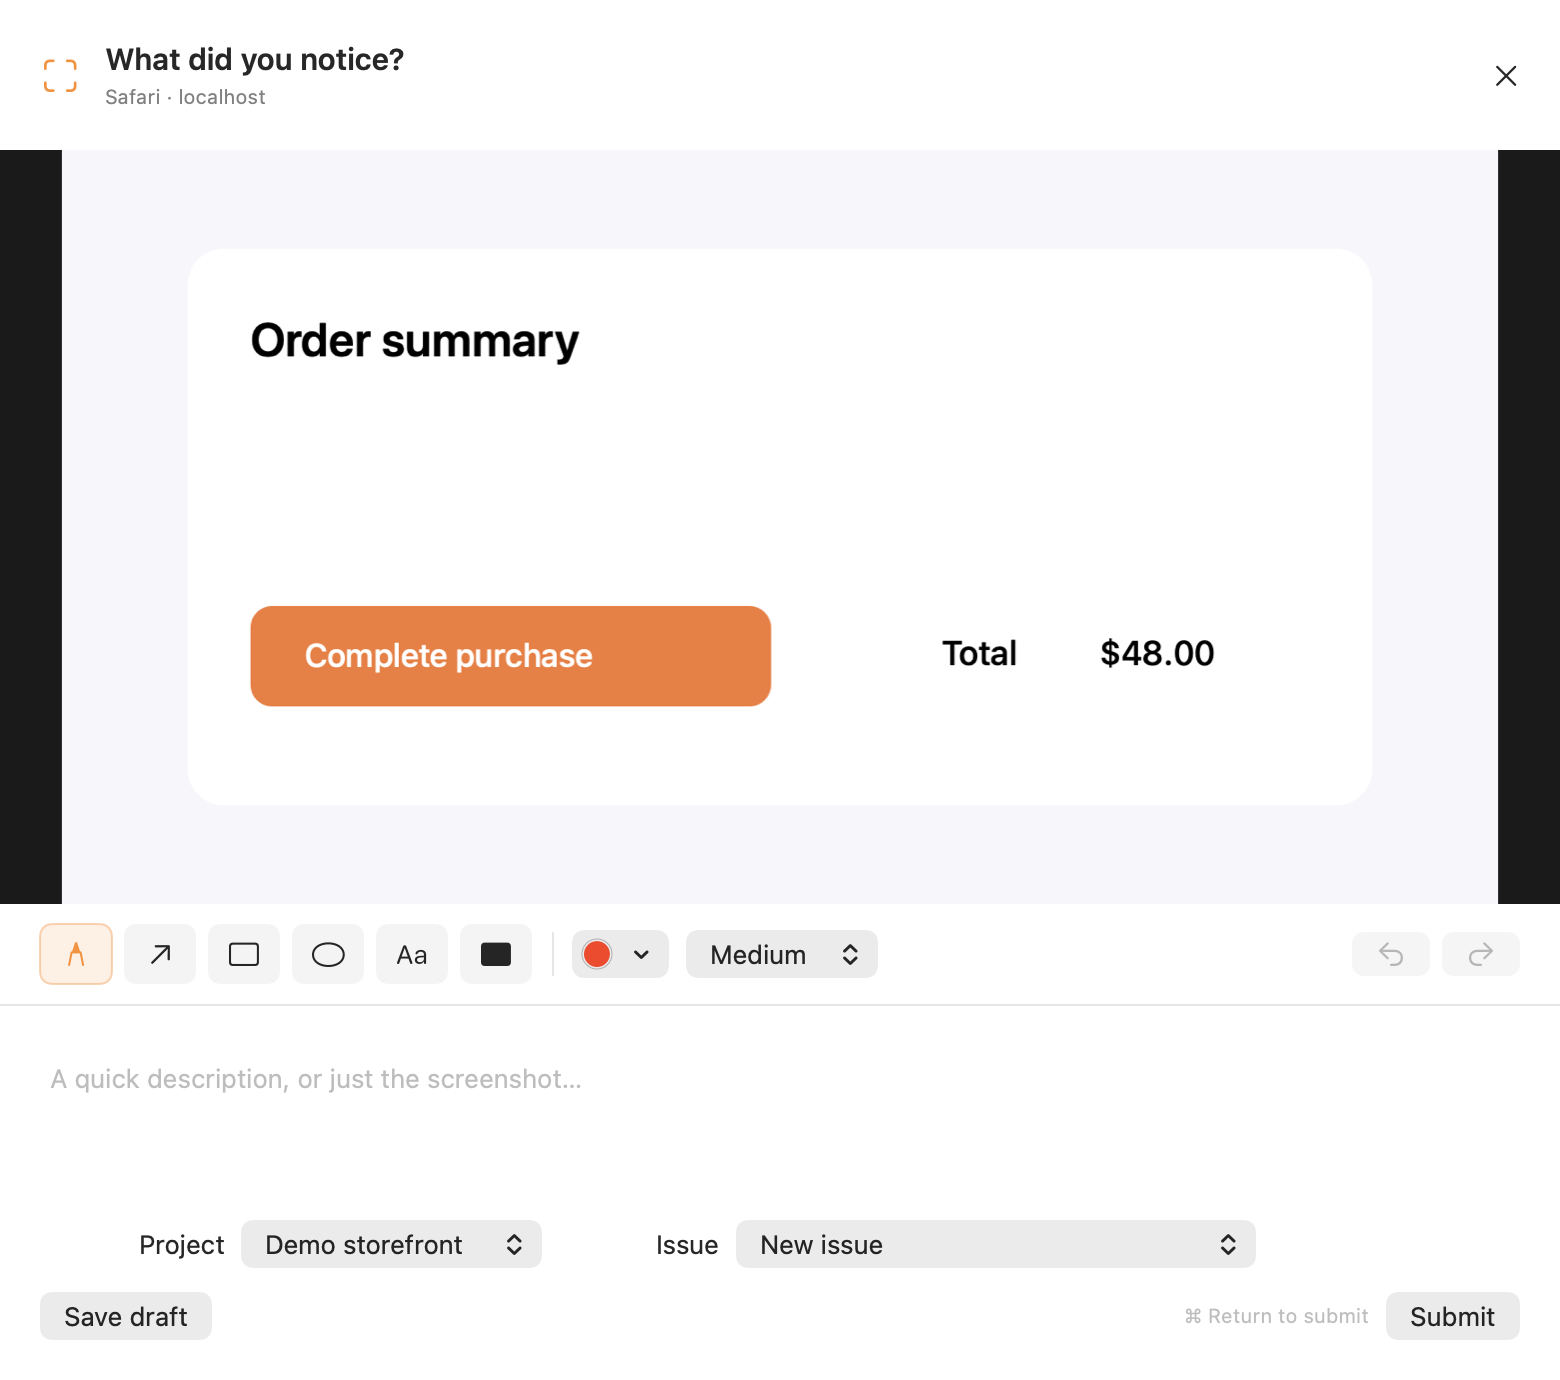
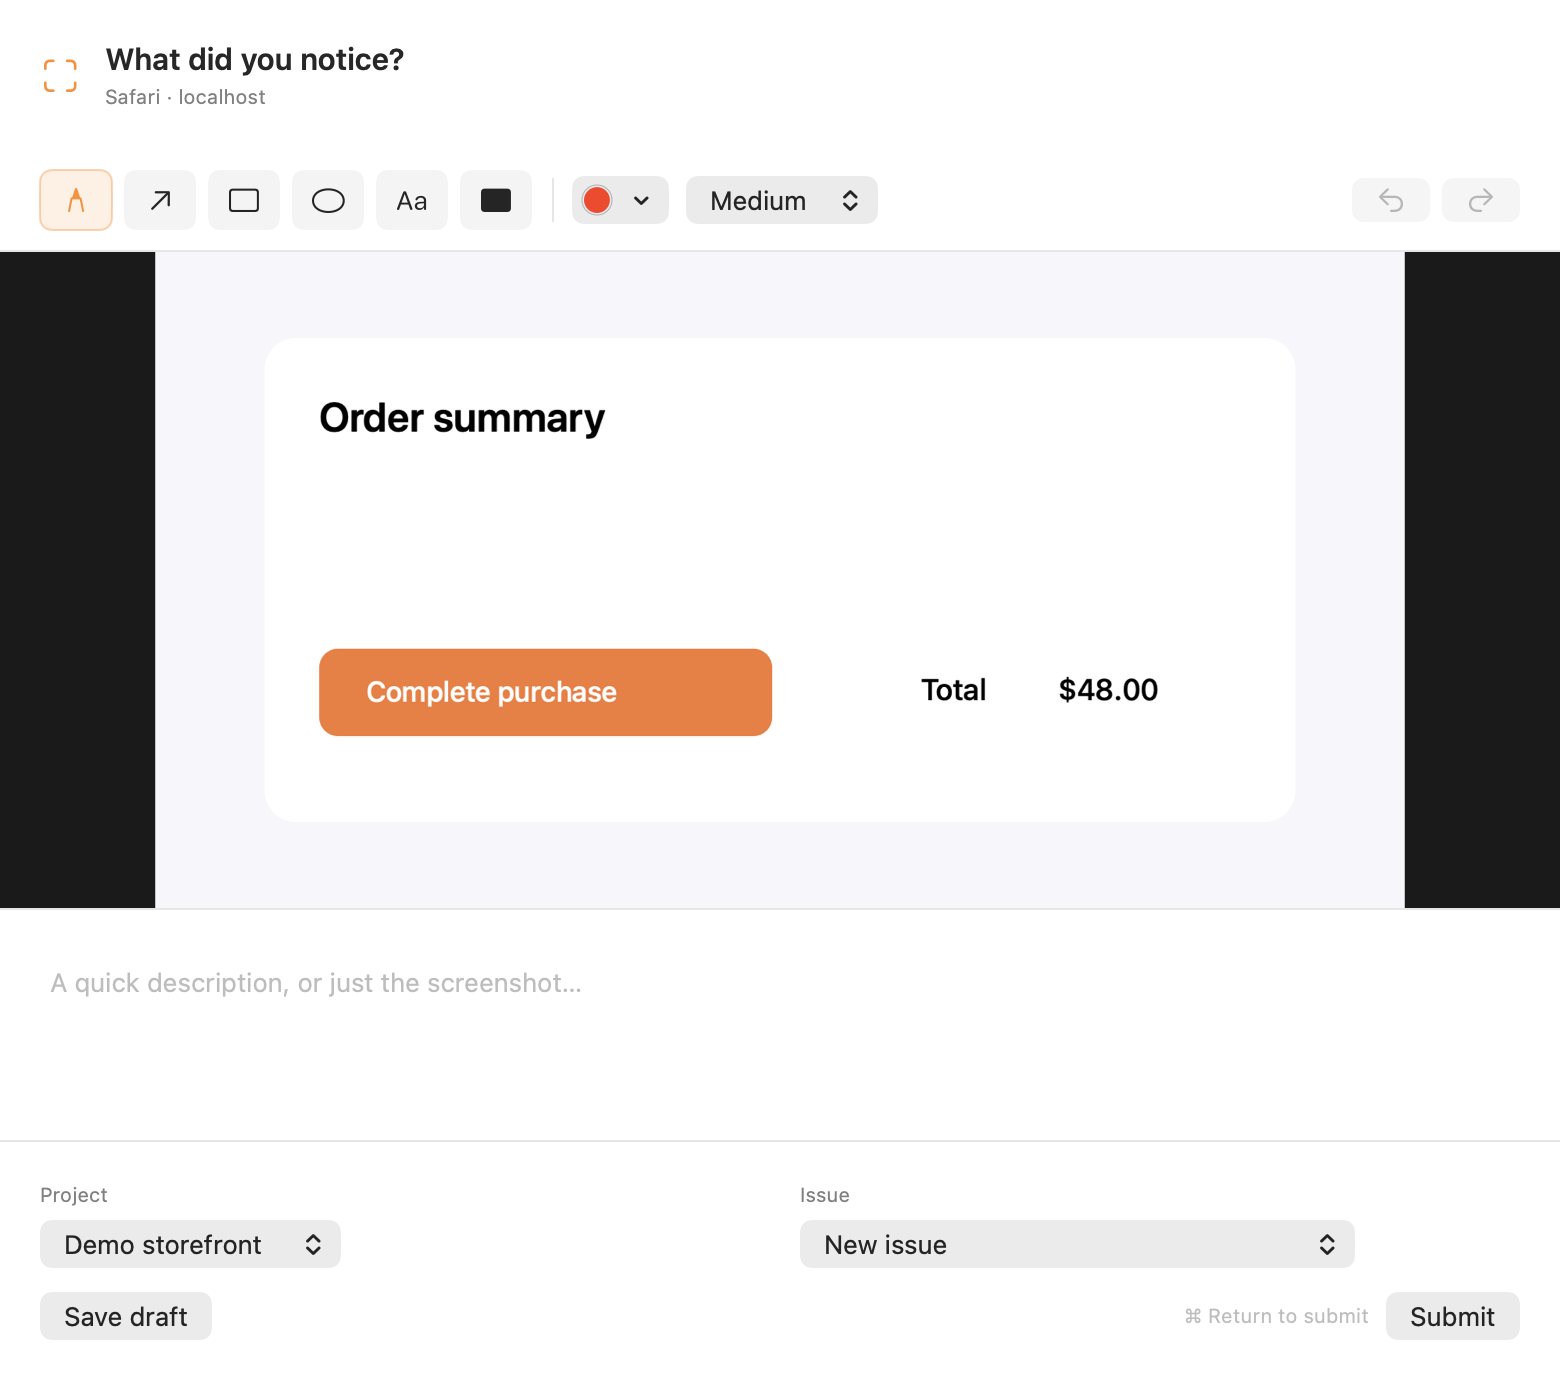
Finish report archive controls, feedback search, and queue header (#5)
* Finish report archive controls, feedback search, and queue header

* Prepare ScreenClip 0.1.7 and record report validation

diff --git a/Sources/ScreenClip/QueueView.swift b/Sources/ScreenClip/QueueView.swift
@@ -48,7 +48,7 @@ struct QueueView: View {
     }
   }
   var body: some View {
-    NavigationSplitView {
+    HSplitView {
       List {
         Section {
           ForEach(QueueFilter.allCases) { item in
@@ -89,7 +89,7 @@ struct QueueView: View {
             Label("Manage projects…", systemImage: "plus")
           }.buttonStyle(.plain).foregroundStyle(.secondary)
         }
-      }.listStyle(.sidebar).navigationSplitViewColumnWidth(min: 190, ideal: 210)
+      }.listStyle(.sidebar).frame(minWidth: 190, idealWidth: 210)
         .safeAreaInset(edge: .bottom) {
           VStack(alignment: .leading, spacing: 8) {
             HStack(spacing: 6) {
@@ -107,19 +107,35 @@ struct QueueView: View {
             }.buttonStyle(.plain).font(.caption)
           }.padding(16).frame(maxWidth: .infinity, alignment: .leading)
         }
-    } content: {
       VStack(spacing: 0) {
-        HStack {
-          VStack(alignment: .leading, spacing: 4) {
-            Text(isReportLookup ? "Report search" : filter.rawValue).font(.title2.weight(.semibold))
-            Text("\(filtered.count) observations").font(.caption).foregroundStyle(.secondary)
+        VStack(alignment: .leading, spacing: 12) {
+          HStack {
+            VStack(alignment: .leading, spacing: 4) {
+              if isReportLookup {
+                Text("Report search").fontWeight(.semibold)
+              } else {
+                Picker("Show reports", selection: $filter) {
+                  ForEach(QueueFilter.allCases) { item in
+                    Label(item.rawValue, systemImage: item.symbol).tag(item)
+                  }
+                }.labelsHidden().pickerStyle(.menu).fixedSize()
+              }
+              Text("\(filtered.count) observations").font(.caption).foregroundStyle(.secondary)
+            }
+            Spacer()
+            Button {
+              model.captureAction?()
+            } label: {
+              Image(systemName: "plus")
+            }.help("New capture")
+            Button {
+              model.settingsAction?()
+            } label: {
+              Image(systemName: "gearshape")
+            }.help("Settings")
           }
-          Spacer()
-          Button {
-            model.captureAction?()
-          } label: {
-            Image(systemName: "plus")
-          }.help("New capture")
+          TextField("Search reports and feedback", text: $search)
+            .textFieldStyle(.roundedBorder).accessibilityLabel("Search reports and feedback")
         }.padding(20)
         Divider()
         if filtered.isEmpty {
@@ -132,32 +148,21 @@ struct QueueView: View {
         } else {
           List(filtered, selection: $model.selectedIssueID) { issue in
             IssueRow(issue: issue, project: model.project(issue.projectID)).tag(issue.id)
+              .contextMenu {
+                Button(issue.archived ? "Restore report" : "Archive report") {
+                  model.setArchived(issue.id, archived: !issue.archived)
+                }.disabled(!issue.archived && !issue.canArchive)
+              }
           }.listStyle(.inset)
         }
-      }.searchable(text: $search, placement: .automatic, prompt: "Find by # or description")
-        .navigationSplitViewColumnWidth(min: 280, ideal: 330)
-    } detail: {
-      if let id = model.selectedIssueID, let issue = model.issue(id) {
-        IssueDetailView(model: model, issue: issue)
-      } else {
-        WelcomeView(model: model)
-      }
-    }
-    .toolbar {
-      ToolbarItem(placement: .primaryAction) {
-        Button {
-          model.captureAction?()
-        } label: {
-          Label("New capture", systemImage: "viewfinder")
-        }.tint(.orange)
-      }
-      ToolbarItem {
-        Button {
-          model.settingsAction?()
-        } label: {
-          Image(systemName: "gearshape")
-        }.help("Settings")
-      }
+      }.frame(minWidth: 280, idealWidth: 330)
+      Group {
+        if let id = model.selectedIssueID, let issue = model.issue(id) {
+          IssueDetailView(model: model, issue: issue)
+        } else {
+          WelcomeView(model: model)
+        }
+      }.frame(minWidth: 450, maxWidth: .infinity, maxHeight: .infinity).layoutPriority(1)
     }
     .overlay(alignment: .bottom) {
       if let banner = model.banner {
@@ -297,10 +302,15 @@ struct IssueDetailView: View {
             Button("Refresh PR status") { Task { await model.worker.refreshPRs() } }
           }
           Spacer()
+          Button {
+            model.setArchived(issue.id, archived: !issue.archived)
+          } label: {
+            Label(issue.archived ? "Restore" : "Archive", systemImage: "archivebox")
+          }.disabled(!issue.archived && !issue.canArchive)
+            .help(
+              issue.archived || issue.canArchive
+                ? "Keep this report's evidence" : "Cancel active work before archiving")
           Menu {
-            Button(issue.archived ? "Unarchive" : "Archive") {
-              model.perform { try model.updateIssue(issue.id) { $0.archived.toggle() } }
-            }
             Button("Link existing chat…") { showLinkChat = true }.disabled(
               issue.status == .working || issue.worktreePath == nil)
             if issue.status != .working {

diff --git a/Tests/ScreenClipAppTests/FeedbackReviewTests.swift b/Tests/ScreenClipAppTests/FeedbackReviewTests.swift
@@ -1,0 +1,77 @@
+import ScreenClipCore
+import XCTest
+
+@testable import ScreenClip
+
+@MainActor final class FeedbackReviewTests: XCTestCase {
+  func testFeedbackSearchIncludesFollowupsRepliesResultsAndActivity() {
+    var issue = Issue(
+      projectID: nil, title: "Capture layout",
+      capture: Capture(
+        note: "Original feedback", imagePath: "/tmp/test.png", context: CaptureContext()))
+    issue.captures.append(
+      Capture(note: "Followup alignment", imagePath: "/tmp/second.png", context: CaptureContext()))
+    var question = PendingQuestion(title: "Should the toolbar wrap?")
+    question.reply = "Keep the controls together"
+    issue.questions = [question]
+    issue.resultSummary = "Removed the translucent strip"
+    issue.record("Validated the compact layout")
+    for query in [
+      " CAPTURE ", "original feedback", "FOLLOWUP ALIGNMENT", "toolbar wrap",
+      "controls together", "translucent strip", "compact layout", "  ",
+    ] {
+      XCTAssertTrue(issue.matchesFeedback(query), query)
+    }
+    XCTAssertFalse(issue.matchesFeedback("unrelated text"))
+  }
+
+  func testArchivePreservesEvidenceAndStatusAndCanBeRestored() throws {
+    let root = FileManager.default.temporaryDirectory.appendingPathComponent(UUID().uuidString)
+    defer { try? FileManager.default.removeItem(at: root) }
+    let model = try AppModel(root: root)
+    var issue = Issue(
+      projectID: nil, title: "Verified report",
+      capture: Capture(
+        note: "Keep this feedback", imagePath: "/tmp/test.png", context: CaptureContext()))
+    issue.status = .verified
+    issue.prURL = "https://github.com/example/repo/pull/1"
+    issue.mergeCommit = "tested-merge"
+    try model.commit { $0.issues = [issue] }
+    model.setArchived(issue.id, archived: true)
+    let archived = try XCTUnwrap(model.issue(issue.id))
+    XCTAssertTrue(archived.archived)
+    XCTAssertEqual(archived.captures, issue.captures)
+    XCTAssertEqual(archived.status, .verified)
+    XCTAssertEqual(archived.prURL, issue.prURL)
+    XCTAssertEqual(archived.mergeCommit, issue.mergeCommit)
+    XCTAssertFalse(QueueFilter.active.includes(archived))
+    XCTAssertTrue(QueueFilter.archived.includes(archived))
+    XCTAssertTrue(try model.store.load().issues[0].archived)
+    model.setArchived(issue.id, archived: false)
+    XCTAssertFalse(try XCTUnwrap(model.issue(issue.id)).archived)
+    XCTAssertFalse(try model.store.load().issues[0].archived)
+  }
+
+  func testActiveWorkAndOutstandingRequestsCannotBeHiddenInArchive() throws {
+    let root = FileManager.default.temporaryDirectory.appendingPathComponent(UUID().uuidString)
+    defer { try? FileManager.default.removeItem(at: root) }
+    let model = try AppModel(root: root)
+    var issue = Issue(
+      projectID: nil, title: "Active report",
+      capture: Capture(note: "Feedback", imagePath: "/tmp/test.png", context: CaptureContext()))
+    for status in [IssueStatus.queued, .working, .prOpen] {
+      issue.status = status
+      try model.commit { $0.issues = [issue] }
+      model.setArchived(issue.id, archived: true)
+      XCTAssertFalse(try XCTUnwrap(model.issue(issue.id)).archived)
+      XCTAssertNotNil(model.banner)
+    }
+    issue.status = .needsYou
+    issue.questions = [PendingQuestion(title: "Permission?", requestID: .number(1))]
+    XCTAssertFalse(issue.canArchive)
+    issue.questions[0].reply = "Answered"
+    XCTAssertTrue(issue.canArchive)
+    issue.dispatchUncertain = true
+    XCTAssertFalse(issue.canArchive)
+  }
+}

diff --git a/Sources/ScreenClipCore/Models.swift b/Sources/ScreenClipCore/Models.swift
@@ -231,7 +231,9 @@ public struct Issue: Codable, Identifiable, Equatable {
   /// Shell command that reopens this issue's Claude Code session interactively.
   public var claudeResumeCommand: String? {
     guard resolvedAgent == .claude, let threadID, let worktreePath else { return nil }
-    func quote(_ value: String) -> String { "'\(value.replacingOccurrences(of: "'", with: "'\\''"))'" }
+    func quote(_ value: String) -> String {
+      "'\(value.replacingOccurrences(of: "'", with: "'\\''"))'"
+    }
     return "cd \(quote(worktreePath)) && claude --resume \(quote(threadID))"
   }
   public var reportReference: String? { reportNumber.map { "#\($0)" } }
@@ -250,8 +252,23 @@ public struct Issue: Codable, Identifiable, Equatable {
     let trimmed = query.trimmingCharacters(in: .whitespacesAndNewlines)
     if trimmed.isEmpty { return true }
     if let number = Self.parseReportReference(trimmed) { return reportNumber == number }
-    return title.localizedCaseInsensitiveContains(trimmed)
-      || captures.contains { $0.note.localizedCaseInsensitiveContains(trimmed) }
+    return matchesFeedback(trimmed)
+  }
+  public var canArchive: Bool {
+    !dispatchUncertain && ![.working, .queued, .prOpen].contains(status)
+      && questions.allSatisfy { $0.requestID == nil || $0.reply != nil }
+  }
+  public func matchesFeedback(_ query: String) -> Bool {
+    let text = query.trimmingCharacters(in: .whitespacesAndNewlines)
+    if text.isEmpty { return true }
+    return title.localizedCaseInsensitiveContains(text)
+      || captures.contains { $0.note.localizedCaseInsensitiveContains(text) }
+      || resultSummary?.localizedCaseInsensitiveContains(text) == true
+      || activities.contains { $0.text.localizedCaseInsensitiveContains(text) }
+      || questions.contains {
+        $0.title.localizedCaseInsensitiveContains(text)
+          || $0.reply?.localizedCaseInsensitiveContains(text) == true
+      }
   }
   public mutating func add(_ capture: Capture) {
     repairAttempts = 0

diff --git a/Sources/ScreenClip/ComposerView.swift b/Sources/ScreenClip/ComposerView.swift
@@ -12,7 +12,6 @@ struct ComposerView: View {
   @State private var projectID: UUID?
   @State private var issueID: UUID?
   @State private var error: String?
-  @State private var confirmCancel = false
   @FocusState private var noteFocused: Bool
   var body: some View {
     VStack(spacing: 0) {
@@ -29,11 +28,6 @@ struct ComposerView: View {
           ).font(.caption).foregroundStyle(.secondary).lineLimit(1)
         }
         Spacer()
-        Button {
-          confirmCancel = true
-        } label: {
-          Image(systemName: "xmark")
-        }.buttonStyle(.plain).accessibilityLabel("Close capture")
       }.padding(20)
       HStack(spacing: 6) {
         ForEach(MarkKind.allCases, id: \.self) { kind in
@@ -167,15 +161,6 @@ struct ComposerView: View {
       }
     }
     .onChange(of: projectID) { _, _ in if existing == nil { issueID = nil } }
-    .confirmationDialog(
-      "Keep this capture?", isPresented: $confirmCancel, titleVisibility: .visible
-    ) {
-      if existing == nil || existing?.status == .draft {
-        Button("Save draft") { submit(draft: true) }
-      }
-      Button("Discard capture", role: .destructive) { close() }
-      Button("Keep editing", role: .cancel) {}
-    }
   }
   private func symbol(_ tool: MarkKind) -> String {
     switch tool {

diff --git a/Sources/ScreenClip/AppModel.swift b/Sources/ScreenClip/AppModel.swift
@@ -182,6 +182,19 @@ import UserNotifications
   }
   func openCodex(_ issue: Issue) { if let url = issue.codexURL { NSWorkspace.shared.open(url) } }
   func markRead(_ id: UUID) { perform { try updateIssue(id) { $0.unread = false } } }
+  func setArchived(_ id: UUID, archived: Bool) {
+    perform {
+      guard let issue = issue(id) else { throw ScreenClipError.message("Report no longer exists.") }
+      guard !archived || issue.canArchive else {
+        throw ScreenClipError.message("Cancel active work before archiving this report.")
+      }
+      guard issue.archived != archived else { return }
+      try updateIssue(id) {
+        $0.archived = archived
+        $0.record(archived ? "Report archived; evidence retained" : "Report restored from archive")
+      }
+    }
+  }
   func openCaptureSettings() {
     if let url = URL(
       string: "x-apple.systempreferences:com.apple.preference.security?Privacy_ScreenCapture")

diff --git a/Sources/ScreenClip/ScreenClipApp.swift b/Sources/ScreenClip/ScreenClipApp.swift
@@ -308,6 +308,8 @@ final class AppDelegate: NSObject, NSApplicationDelegate, UNUserNotificationCent
       styleMask: [.titled, .closable, .miniaturizable, .resizable], backing: .buffered, defer: false
     )
     window.title = title
+    window.toolbarStyle = .unifiedCompact
+    window.titlebarAppearsTransparent = false
     window.isReleasedWhenClosed = false
     window.center()
     window.contentViewController = NSHostingController(rootView: view)

diff --git a/docs/validation.md b/docs/validation.md
@@ -4,7 +4,7 @@ November 13, 2026. Development host: macOS 27.0.1, Xcode 27.2, Swift 6.4.2, Appl
 
 ## Verified
 
-The latest source review, after merging the latest origin/main, passed **60 Swift tests**, **5 Python plugin tests**, and **4 Python queue-review tests**. Xcode Debug and Release builds and strict signature verification passed for **0.1.6 (7)**. The website build and Python, shell, and JavaScript syntax checks passed. SwiftPM supplies the core library and runs the command-line tests. These review builds were not installed or repackaged. The earlier installed 0.1.6 check retained both registered projects and all six existing reports and assigned their stable numbers. Public Developer ID signing and notarization remain separate. The live desktop project-grouping check failed; see [repository association review](#repository-association-review).
+The final combined source passed **63 Swift tests**, **5 Python plugin tests**, and **4 Python queue-review tests**. Xcode Debug and Release builds and strict signature verification passed for **0.1.7 (8)**. Native synthetic previews confirm the report filter, visible archive/restore action, clear queue header, and updated composer layout. SwiftPM supplies the core library and command-line tests. The earlier installed 0.1.6 check retained both registered projects and all six existing reports and assigned their stable numbers. Public Developer ID signing and notarization remain separate. The live desktop project-grouping check failed; see [repository association review](#repository-association-review).
 
 - Native Swift executable and app bundle build without third-party package dependencies.
 - The native `ScreenClip.xcodeproj` shared scheme builds and development-signs the app for My Mac (Apple Silicon). Run has an install pre-action and launches `/Applications/ScreenClip.app`; the XML wiring and installer were checked, while clicking Command-R in Xcode remains a manual check. `scripts/run.sh` uses the same Xcode project and installer. Installation rejects ad-hoc builds, stages/verifies before quitting existing copies, and does not touch Application Support. A checkout without the ignored local signing file still builds ad-hoc for CI. The core library remains a local package dependency; the command-line test suite uses Swift Package Manager.
@@ -28,6 +28,14 @@ The latest source review, after merging the latest origin/main, passed **60 Swif
 The private fixture contains synthetic HTML/CSS and a regression test. It is retained as inspectable test evidence and contains no user screenshots. The ScreenClip source repository has `https://github.com/lludo/ScreenClip.git` configured as its origin.
 
 The source review added a regression that reproduced two chats and turns being created when canceling and immediately retrying during project lookup. Outstanding dispatches now stay serialized until their requests return, and their tasks retain the model through cleanup. Claude process-client regressions cover evidence input, progress and structured output, usage, final records without a newline, unsuccessful process exits, malformed JSON text, and shell-quoted resume commands. Claude detection and the process client are groundwork only: selection and dispatch are not connected to the app, and a Claude-labelled issue is rejected rather than silently sent to Codex. Queue-review tests cover read-only database access, exact report-number searches, archive eligibility, missing project configuration, and agent-specific session output. CI runs the new Python tests and website build.
+
+
+## Feedback report completion
+
+- Recovery [PR #1](https://github.com/lludo/ScreenClip/pull/1), capture-default [PR #3](https://github.com/lludo/ScreenClip/pull/3), authentication-timeout [PR #4](https://github.com/lludo/ScreenClip/pull/4), and composer-layout [PR #2](https://github.com/lludo/ScreenClip/pull/2) passed CI and merged. The local queue retains the report PR links, validated heads, merge commits, and captures. Merged reports remain available for retesting until verified.
+- Reports #4–#6 remove the composer's duplicate close control, expose archive/restore and a status filter at the top of the queue, search capture notes plus questions/replies/results/activity, and replace automatic navigation chrome with ordinary resizable queue panes. Synthetic Release previews show readable header controls without the reported blurred strip. The native window close/discard guard remains in place.
+- Three new regressions cover feedback search, durable archive/restore with capture and PR evidence retained, and rejection of archiving while work or an agent permission request is outstanding. A canceled or verified report can be archived without deleting its screenshots or changing its outcome.
+- Both projects have validation commands and automatic merge configured. Genealogy's CI [PR #1424](https://github.com/lludo/Genealogy/pull/1424) merged; its configured Core validation passed 1,225 tests with 25 skips and no failures. Live ScreenClip queue recovery is coordinated by one native queue writer.
 
 ## Repository association review
 

diff --git a/docs/product-spec.md b/docs/product-spec.md
@@ -91,6 +91,8 @@ Proposed compact menu bar label: icon plus the count of submitted, unresolved is
 | Issue detail | Click-to-copy report number, ordered images and notes, captured context, concise activity, questions and replies, Codex link, PR link, validation result |
 | Queue window | All issues, project/status filters, search, drafts, archive |
 
+The queue has resizable panes with a status filter and feedback search above the report list. Search includes capture notes, questions, replies, results, and activity. Archive and Restore are available directly in report details and the report row's context menu; archiving retains screenshots, status, and PR/merge evidence. Active work and outstanding agent permission requests must be canceled or resolved before archiving. The composer uses the regular macOS close control with its existing discard confirmation.
+
 Counts represent issues, so adding a second screenshot to an existing issue does not increment the count. Drafts are counted separately. **Merged** issues leave the active count and appear under **To retest**. Keep row positions stable during updates; offer explicit sorting and filtering.
 
 Assign a sequential report number when an issue or draft is first saved, unique within the local queue across projects. Retain it through draft submission, related captures, renames, retries, archive, and reopening. Number existing reports in creation order without reordering the queue. Never reuse a deleted number. Searching `#234` or `234` finds that exact report even when its project or status is outside the current filters. Include the reference in new Codex chat names, agent prompts, notifications, exports, PR descriptions, and plugin results; keep the UUID as the internal identity.
